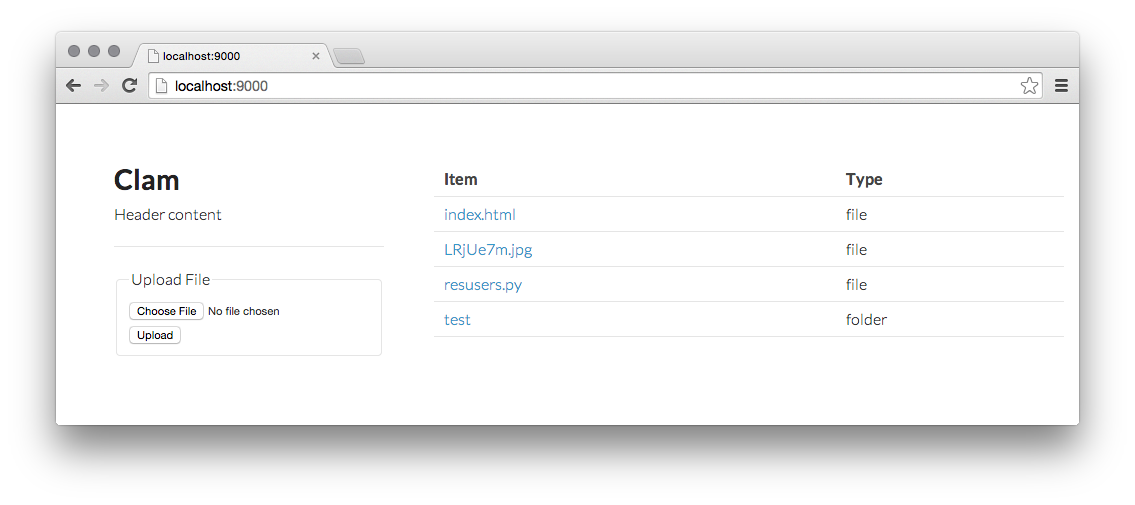
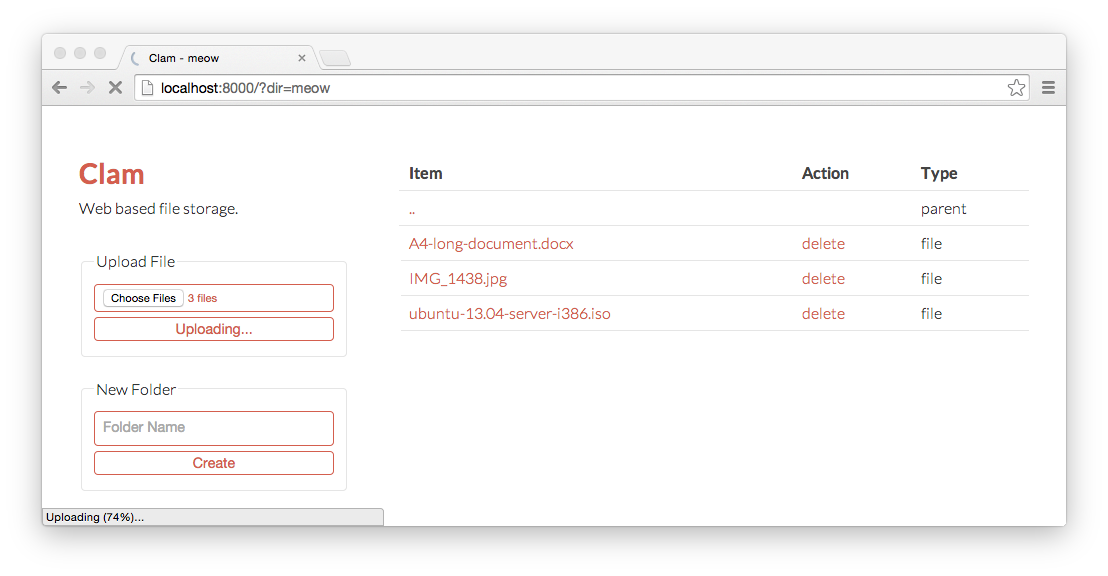
updated screenshot and uploading animation

diff --git a/templates/index.html b/templates/index.html
@@ -11,7 +11,7 @@
 			<p>Web based file storage.</p>
 
 			<br>
-			<form method="POST" enctype="multipart/form-data" onsubmit="javascript:function(e){ alert('Uploading');}">
+			<form method="POST" enctype="multipart/form-data" onsubmit="displayUpload(this);">
 			<fieldset>
     			<legend>Upload File</legend>
     			<div class="button">
@@ -32,5 +32,15 @@
 			${content}
 		</section>
 	</div>
+	<script type="text/javascript">
+	function displayUpload(e) {
+		var subtext = e.firstElementChild.lastElementChild;
+		var i = 0;
+		setInterval(function() {
+		    i = ++i % 4;
+		    subtext.value = "Uploading" + Array(i+1).join(".") + Array(4- i).join(" ");
+		}, 500);
+	}
+	</script>
 </body>
 </html>
